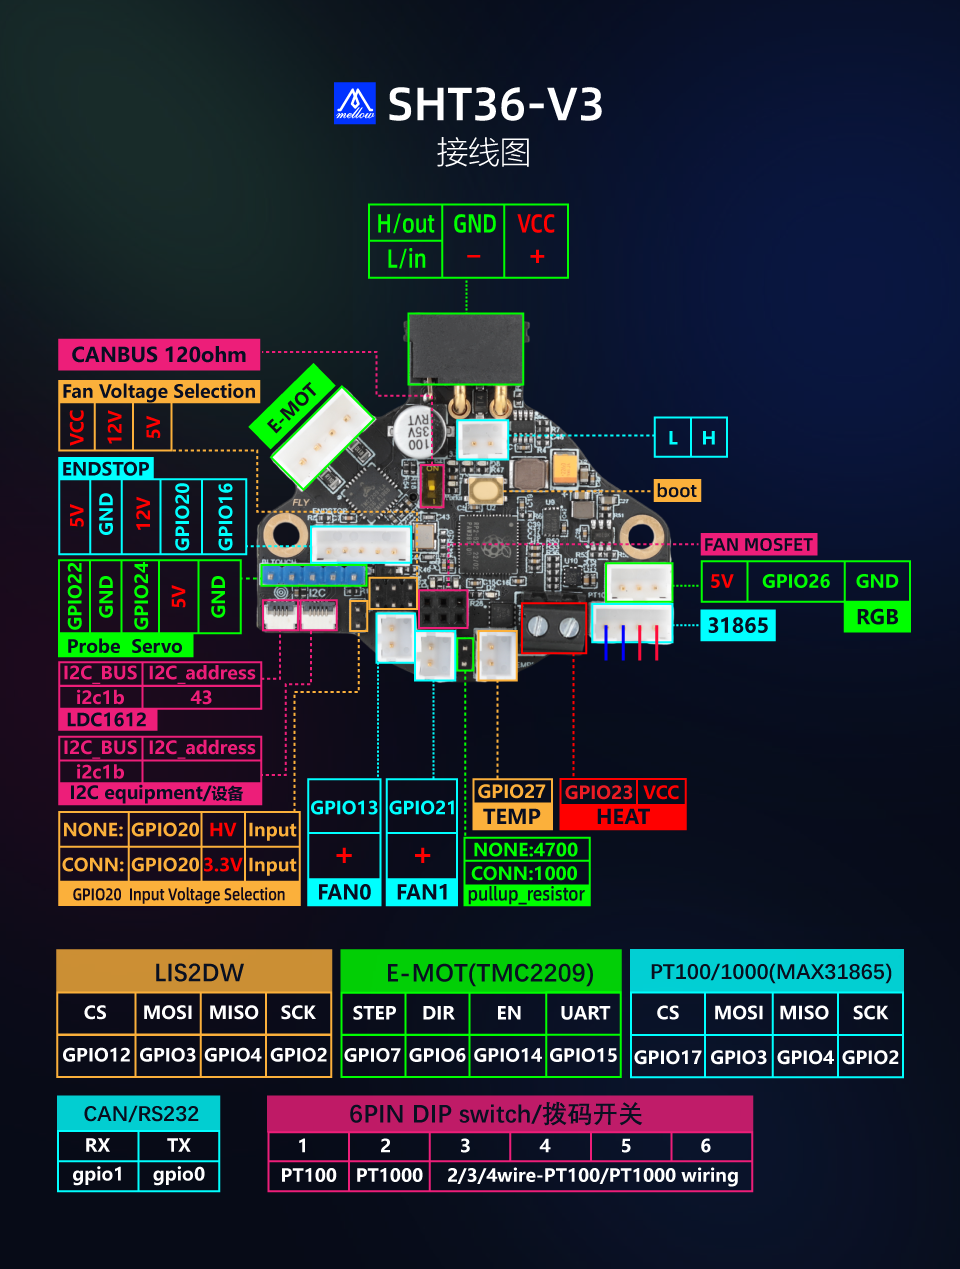
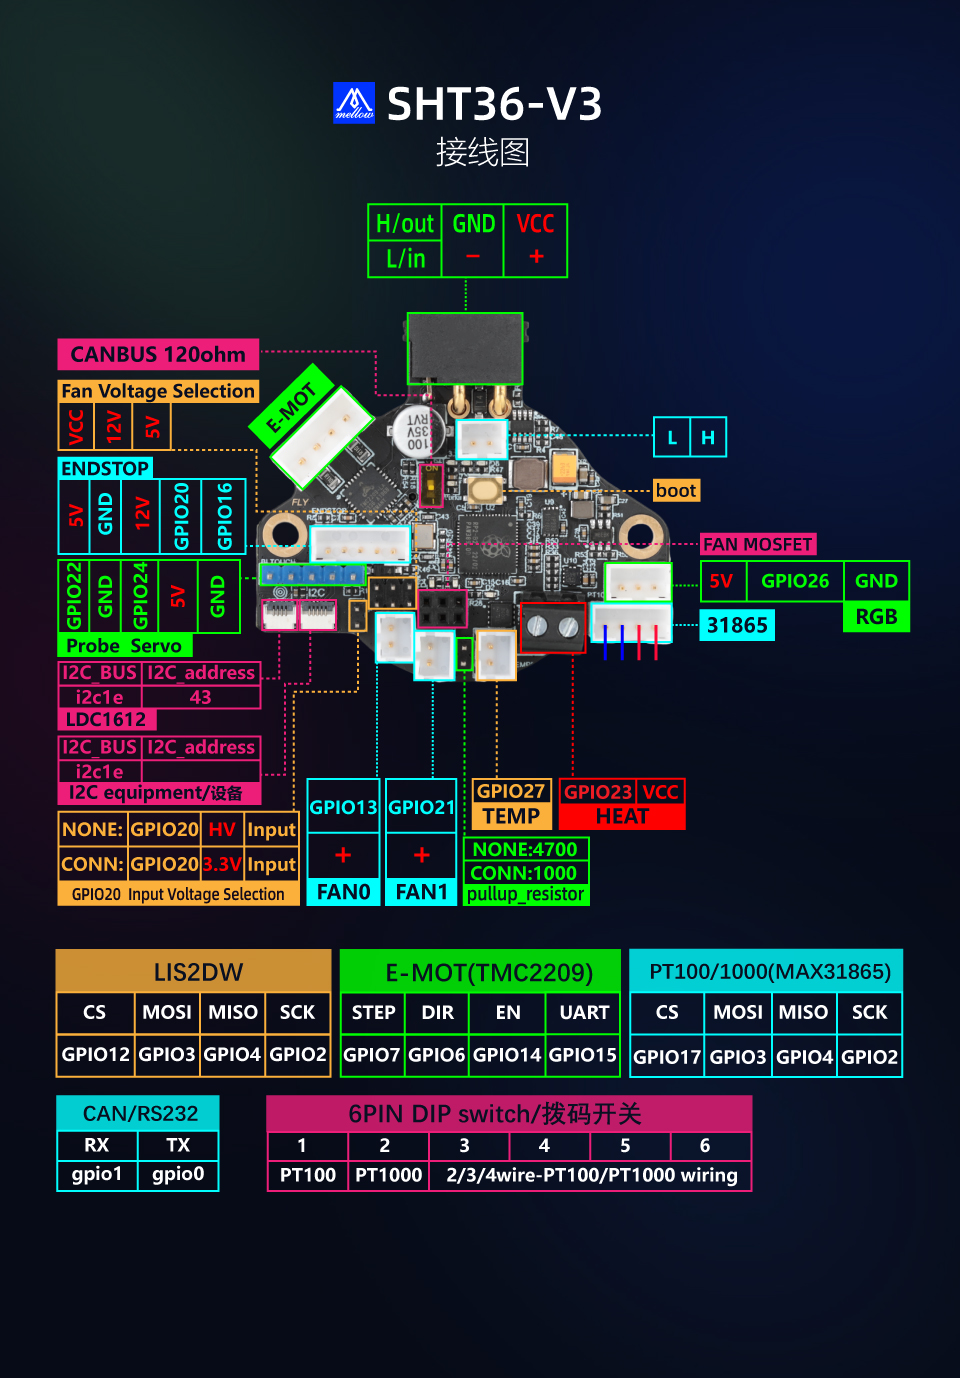
更新36图片，更新prox10烧录

diff --git a/docs/board/fly_pro/BL.md b/docs/board/fly_pro/BL.md
@@ -1,0 +1,74 @@
+刷写BL或者Katapult
+
+拉取最新BL
+
+```
+cd && git clone https://github.com/FengHua741/FLY_Katapult.git
+```
+
+进入DFU烧录
+
+按着主板的BT0后按右边的RST即可进去DFU模式（需要配图）
+
+<!-- tabs:start -->
+
+### **Klipper上位机烧录**
+
+1. 安装烧录工具
+
+```bash
+sudo apt install dfu-util -y
+```
+
+3. 执行下面的命令查看是否连接成功,复制蓝色框中的USB ID
+
+```bash
+lsusb
+```
+
+* 因系统版本问题可能显示其他名字，如果有`0483:df11`则代表进入烧录模式
+
+![6](../../images/boards/fly_sht36_42/6.png ":no-zooom")
+
+4. 烧录固件(烧录前确保已经编译过固件),将下面命令中的**0483:df11**替换为前面复制的USB ID
+
+```bash
+sudo dfu-util -a 0 -D ~/katapult/out/katapult.bin --dfuse-address 0x08000000:force:mass-erase -d 0483:df11
+
+```
+5. 没有报错则烧录成功,如果出现报错请重新检查每个步骤操作
+
+![7](../../images/boards/fly_super8_pro/dfu.png ":no-zooom")
+
+6. 出现上图内容则烧录成功
+
+> [!TIP]
+> 注意：烧录成功后一定记得拔下来跳线帽
+
+### **使用电脑USB烧录**
+
+1. 下载烧录工具[STM32CubeProgrammer](https://cdn.mellow.klipper.cn/Utils/STM32CubeProgrammer.zip)
+2. 解压烧录工具到任意目录，进入`STM32CubeProgrammer/bin`目录，双击打开`STM32CubeProgrammer.exe`
+3. 下载需要更新的[FLY_Katapult/BL/ProX10](https://github.com/FengHua741/FLY_Katapult/tree/main/BL/ProX10)的BL
+4. 使用Type-C数据线将ProX10板连接到电脑，请确保连接前已将拨码往上波（需要配图）
+5. STM32CubeProgrammer中选择USB模式，并刷新，连接
+
+![2](../../images/boards/fly_sht36_42/2.png ":no-zooom")
+
+6. 如果没有出现错误弹窗则连接成功
+7. 打开固件文件，在弹窗中选择需要烧录的固件
+
+![3](../../images/boards/fly_sht36_42/3.png ":no-zooom")
+
+8. 确认页面有内容，不是00000。然后点击**Download**
+
+![4](../../images/boards/fly_sht36_42/4.png ":no-zooom")
+
+9. 出现图中就是烧录成功
+
+![5](../../images/boards/fly_sht36_42/5.png ":no-zooom")
+
+<!-- tabs:end -->
+
+>[!TIP]
+>注意：烧录成功后一定要在断电情况下将拨码改回去否则无法正常使用

diff --git a/docs/board/fly_pro/flash.md b/docs/board/fly_pro/flash.md
@@ -67,6 +67,10 @@
 
 ## 固件烧录
 
+* 输入 ``ls /dev/serial/by-id/*`` 回车。如果一切正常，则会出现下面一行蓝色的ID。
+
+<img src="../../images/boards/fly_super8/id.png" alt="id" style="zoom:80%;" />
+
 * 出厂预刷Katapult我们可以直接通过Katapult刷固件，请注意`-d`后面有空格
 
 ```
